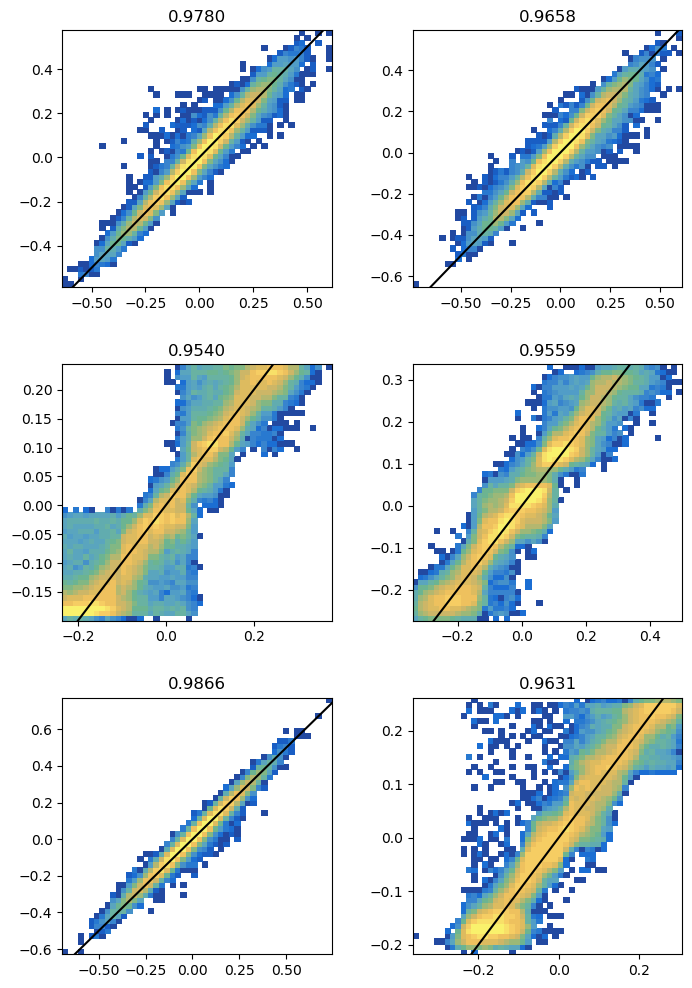
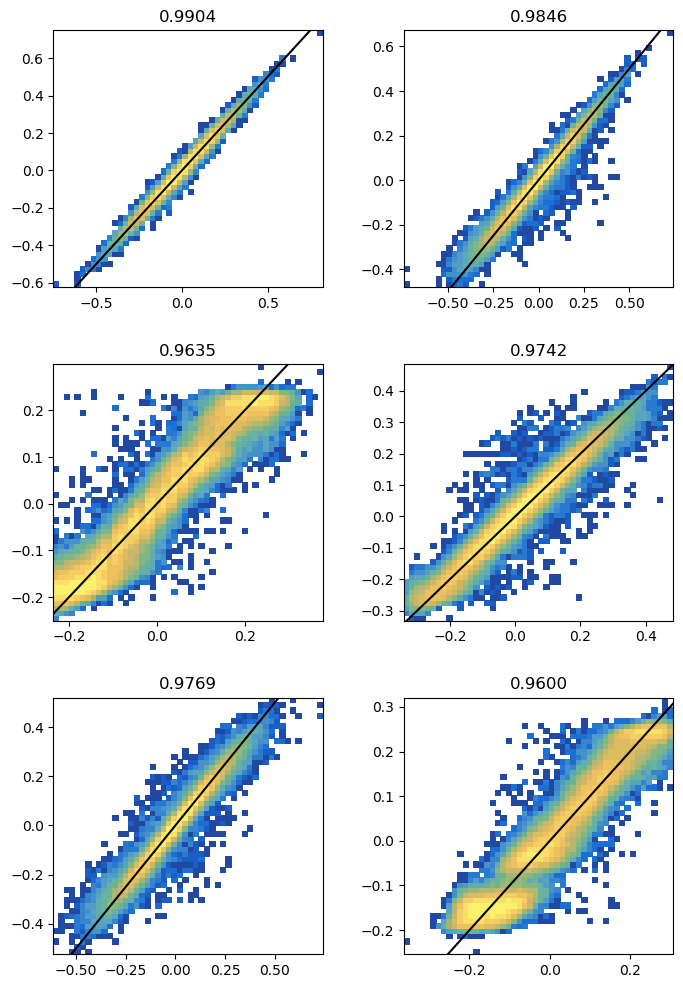
implement loss boosting for VAE

diff --git a/VAE.py b/VAE.py
@@ -88,7 +88,11 @@ save_interval = 25000
 
 calculate_ROC = True
 
-sample_boosting = True
+sample_boosting = False
+loss_boosting = True
+if loss_boosting == True and sample_boosting == True:
+	print('You cant have everything...')
+	quit()
 latent_dim = 4
 original_dim = 6
 kl_factor = 1E-4
@@ -228,7 +232,7 @@ def train_step(images):
 	return vae_kl_loss, vae_reco_loss
 
 @tf.function
-def train_step_boosted(images):
+def train_step_sample_boosting(images):
 
 	pdg, images, aux_values_BIN, un_boost_latent = images[:,:,0], images[:,0,1:7], images[:,:,7:-1], images[:,:,-1]
 
@@ -239,6 +243,28 @@ def train_step_boosted(images):
 		vae_reco_loss = reco_loss(images, vae_out)
 		vae_reco_loss = tf.math.reduce_mean(vae_reco_loss)
 		vae_kl_loss = kl_loss(vae_z_mean, vae_z_log_var)*un_boost_latent
+		vae_kl_loss = tf.math.reduce_mean(vae_kl_loss)
+
+		vae_loss = vae_kl_loss*kl_factor + vae_reco_loss*reco_factor
+
+	grad_vae = tape.gradient(vae_loss, vae.trainable_variables)
+
+	optimizer.apply_gradients(zip(grad_vae, vae.trainable_variables))
+
+	return vae_kl_loss, vae_reco_loss
+
+@tf.function
+def train_step_loss_boosting(images):
+
+	pdg, images, aux_values_BIN, loss_boost = images[:,:,0], images[:,0,1:7], images[:,:,7:-1], images[:,:,-1]
+
+	with tf.GradientTape() as tape:
+
+		vae_out, vae_z_mean, vae_z_log_var = vae(images)
+
+		vae_reco_loss = reco_loss(images, vae_out)
+		vae_reco_loss = tf.math.reduce_mean(vae_reco_loss)*loss_boost
+		vae_kl_loss = kl_loss(vae_z_mean, vae_z_log_var)
 		vae_kl_loss = tf.math.reduce_mean(vae_kl_loss)
 
 		vae_loss = vae_kl_loss*kl_factor + vae_reco_loss*reco_factor
@@ -287,6 +313,10 @@ for epoch in range(int(1E30)):
 			weight_back_down = boost_weights**-1
 			weight_back_down = np.squeeze(weight_back_down/np.sum(weight_back_down))*np.shape(X_train)[0]
 			X_train = np.concatenate((X_train, np.expand_dims(weight_back_down,1)),axis=1)
+		elif loss_boosting == True:
+			boost_weights = np.sqrt(X_train[:,-1])
+			boost_weights = np.squeeze(boost_weights/np.sum(boost_weights))
+			X_train = np.concatenate((X_train, np.expand_dims(boost_weights,1)),axis=1)
 
 		if iteration == -1:
 			plt.figure(figsize=(5*4, 3*4))
@@ -320,7 +350,9 @@ for epoch in range(int(1E30)):
 			iteration += 1
 
 			if sample_boosting == True:
-				kl_loss_np, reco_loss_np = train_step_boosted(images_for_batch)
+				kl_loss_np, reco_loss_np = train_step_sample_boosting(images_for_batch)
+			elif loss_boosting == True:
+				kl_loss_np, reco_loss_np = train_step_loss_boosting(images_for_batch)
 			else:
 				kl_loss_np, reco_loss_np = train_step(images_for_batch)
 
